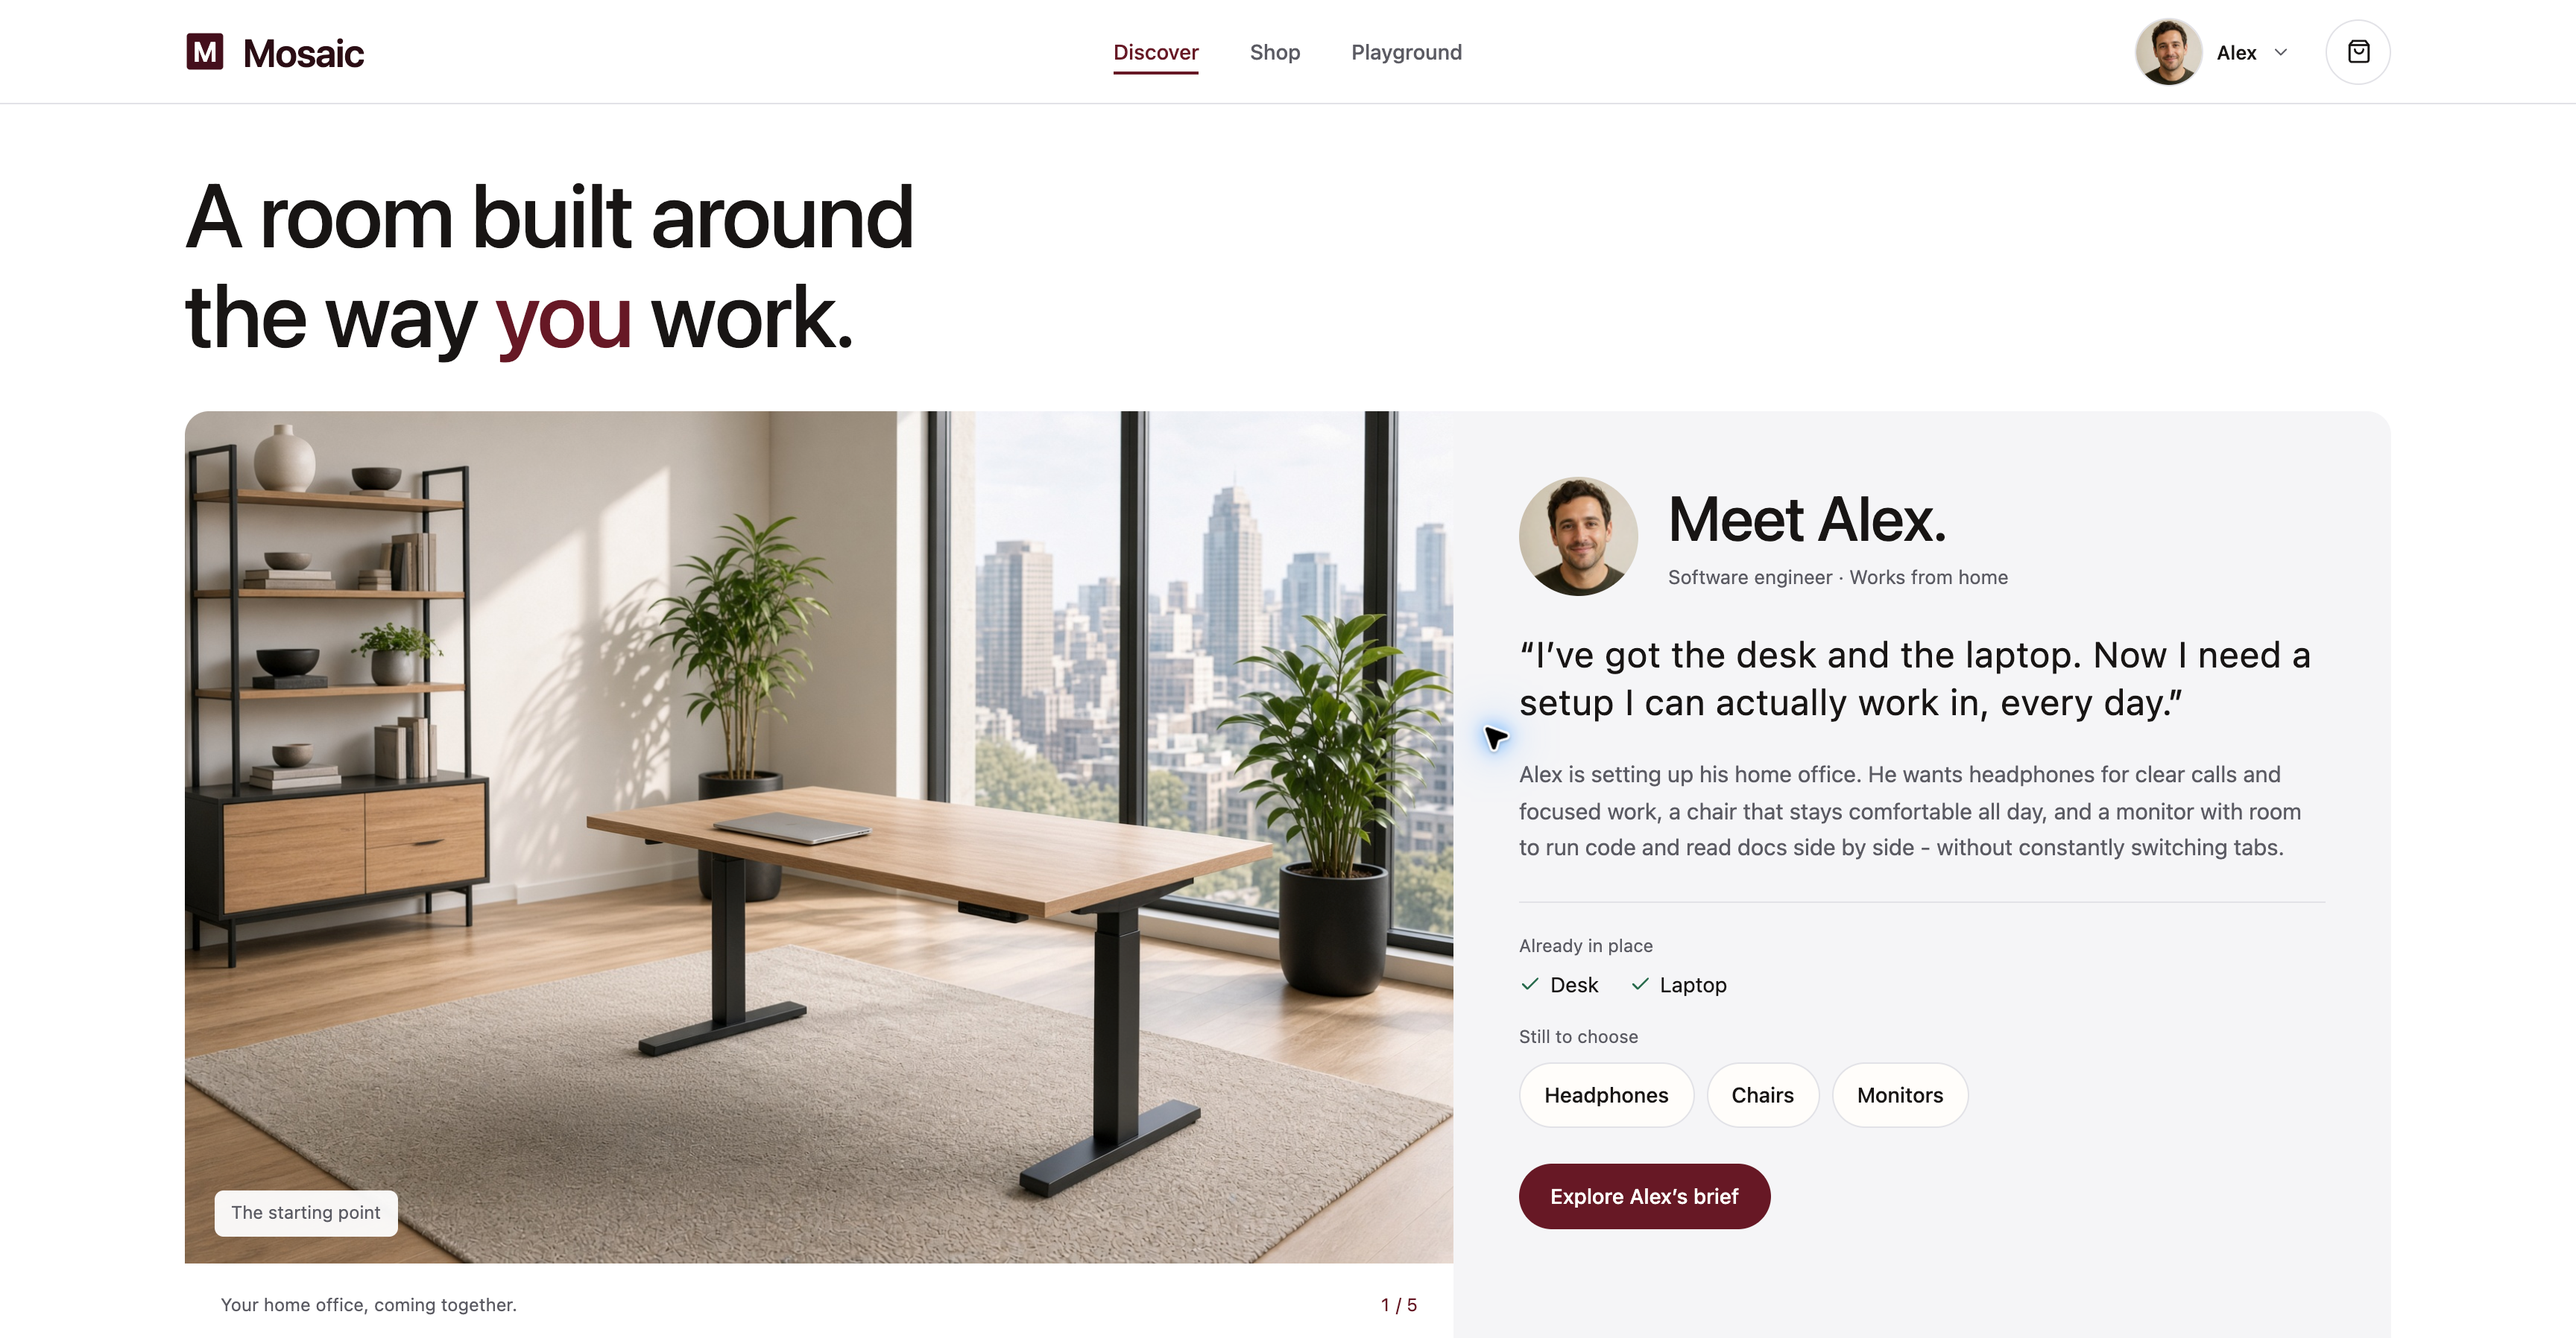
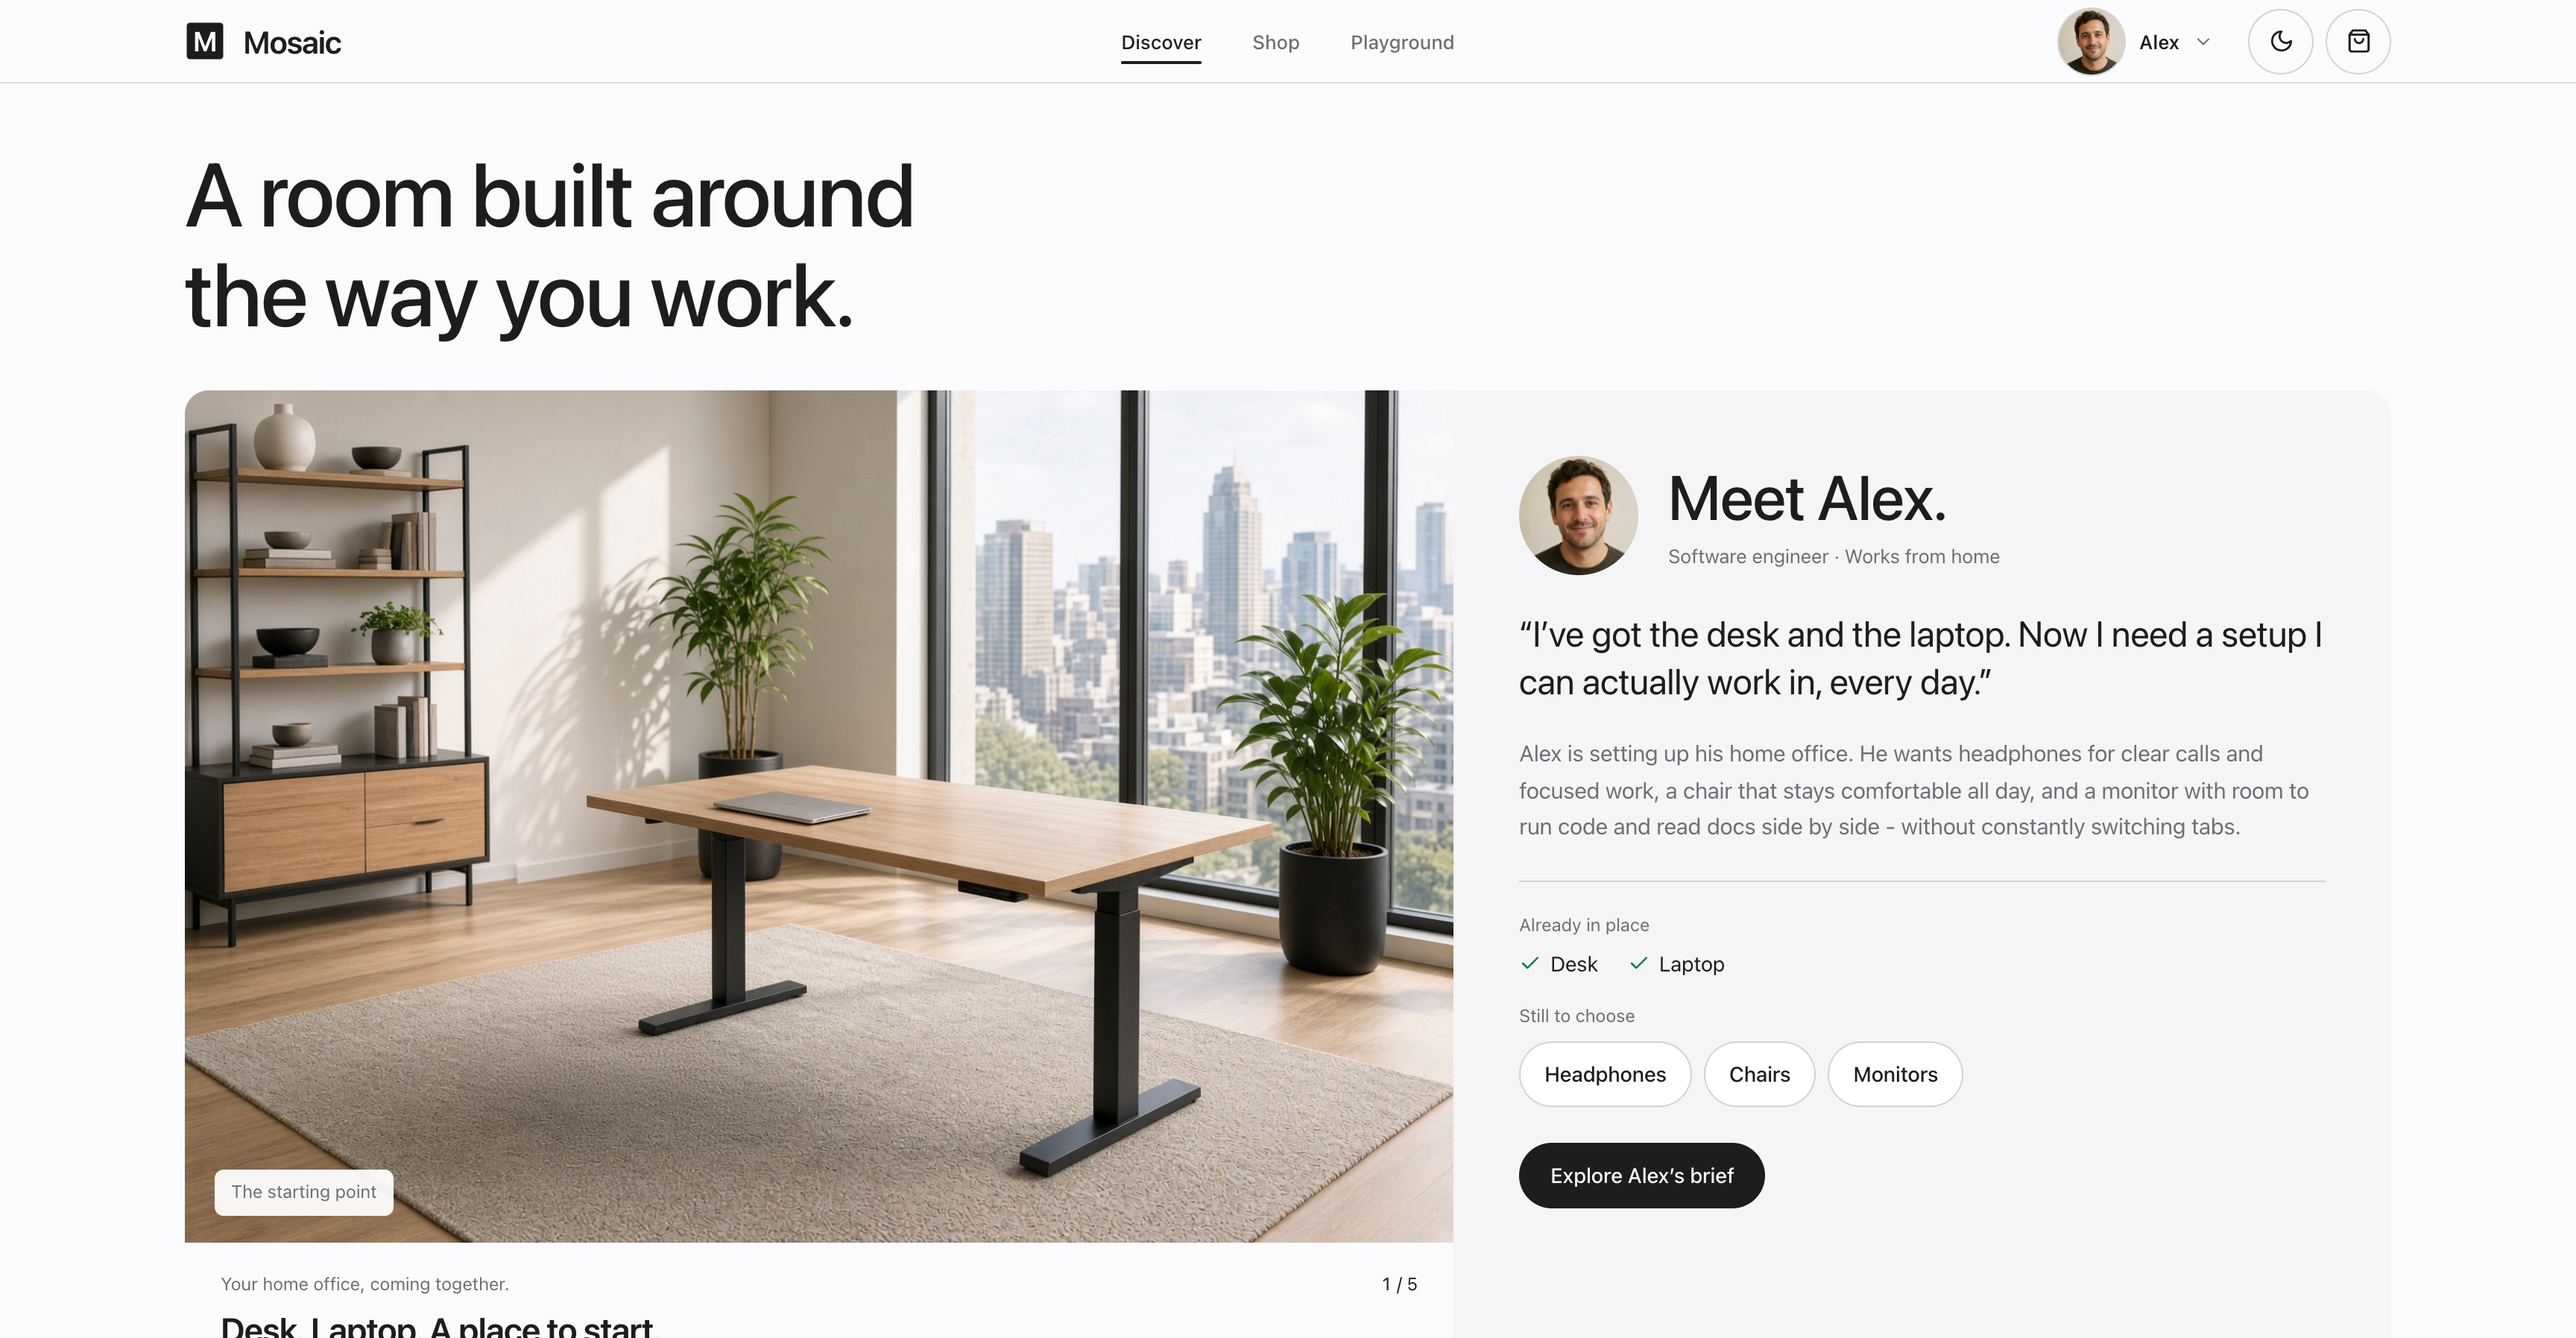
Describe receipts, typed specs, deeper reviews and themes up front
README and workshop.md now say what a participant meets: the itemized
"Why this match" receipt, product pages that quote the listing for each
typed spec, the light and dark appearance, and that the deeper review
sample is staged on the development cluster only until the catalog
bundle is republished. The README screenshot shows the current Discover
page.

diff --git a/workshop.md b/workshop.md
@@ -281,10 +281,10 @@ and the Playground lab rail carries these exercise states.
 
 ### Mosaic
 
-The application has three navigation destinations, with Ask Mosaic inside Shop:
+The application has three navigation destinations, with Ask Mosaic inside Shop. It follows the device's light or dark appearance; the header's sun or moon button switches it and the browser remembers the choice. Product photos sit on neutral plates so white-background listing images read the same in both themes.
 
 - **Discover.** The home-office brief described above: Alex, his room, three needs, and routes into search or category browsing. The illustrated scenes are inspiration, not a product bundle or a completed purchase.
-- **Shop.** The default Workspace edit shows a curated selection of the imported catalog; keyword search reaches the full 553,911 products. Every result card can open "See how this was retrieved", carrying the query, filters and saved search event into the Playground. Ticking two or more results compares them side by side, and the comparison is worth showing: under the price and the rating it prints which search methods found each product, its rank before reranking, and the rank the shopper was shown. Those three rows come from the run's saved receipt, not from the list on screen, which is why a comparison is only offered once a search has run. If the catalog carries none of a request's words, Shop says which ones above the results rather than returning a confident page of near misses.
+- **Shop.** The default Workspace edit shows a curated selection of the imported catalog; keyword search reaches the full 553,911 products. Every result card can open "See how this was retrieved", carrying the query, filters and saved search event into the Playground. **Why this match** on a result card unfolds its itemized receipt from the saved search: each method that found the product with its position and fusion contribution (a method that missed gets no line), the combined score before reranking, the reranker's score and the final position, then what the listing states, each fact beside the listing text it came from. Ticking two or more results compares them side by side, and the comparison is worth showing: under the price and the rating it prints which search methods found each product, its rank before reranking, and the rank the shopper was shown. Those three rows come from the run's saved receipt, not from the list on screen, which is why a comparison is only offered once a search has run. If the catalog carries none of a request's words, Shop says which ones above the results rather than returning a confident page of near misses.
 - **Ask Mosaic.** The agent, in a side panel on Shop or a mobile overlay below the header. The catalog retains its margins at normal laptop zoom, and long questions wrap in full. The panel keeps its title and follow-up box visible, with compact waiting and completed steps. It shows progress while gathering evidence, then leads with the cited answer. **Steps and sources** holds the request interpretation, searches, product comparison, supporting evidence, and tool activity. Follow-ups carry context from the prior grounded run with memory off. **Use saved memories** is a separate, optional control using the Playground's AgentCore Memory connection. **Memories used** shows actual records read and conversation-save status. Clearing chat starts a new conversation and keeps saved preferences. Required lab requests keep memory off. A specs-and-reviews question explains the available specifications and missing review excerpts without implying the product is absent or inventing customer experiences.
 - **Playground.** `/labs/retrieval` defaults to **Hybrid retrieval**, a three-stage inspection of Retrieve, Rank and Reason. Each column ends with a **Keep in mind** line that states the lesson the column proves, and Retrieve's search details add one more beside the search record, on the receipt and the HNSW settings; the stage questions are the ones introduced in the opening. Alex's request choices come from the canonical mission manifest. One send action, the same paper plane Discover uses (its tooltip reads **Run Mosaic**), makes a real agent request; the stages read its records. A saved Shop event opens its original receipt, and Run Mosaic starts a new complete run when an agent answer is needed. **Scale & HNSW** is the adjacent inspection lens.
 
@@ -305,13 +305,24 @@ links carry their saved search event into the three-stage Playground, preserving
 the request and both ranking orders. The current catalog serves unchanged source
 listings from Amazon Reviews 2023. Product pages retain original listing links,
 source image links, historical rating aggregates and explicit unknown values.
-Neither a relevance label nor a matching model number establishes compatibility.
+For monitors, headphones and chairs the page leads its specifications with the
+typed facts the listing states (screen size, resolution, refresh rate, USB-C
+power; noise cancelling, microphone, wireless, fit; lumbar support, armrests,
+headrest, weight capacity), each shown with its verbatim listing text.
+`service/product_specs.py` derives them at read time from the pinned source
+record, so they need no bundle change, and the agent's product tools return the
+same facts with their quotes. A fact the listing does not state is left out,
+never inferred. Neither a relevance label nor a matching model number
+establishes compatibility.
 
 Workshop Studio restores the selected 553,911 records and saved vectors from the
 hash-pinned real-catalog bundle, then sets `MOSAIC_CATALOG_DATASET`. The original
 cached catalog remains for shared schema setup and historical optional benchmarks;
 it is not the Shop catalog. The 418,620 imported reviews cover 67,750 products
-in the monitor, headphone and chair leaves. Lab 3 distinguishes specifications
+in the monitor, headphone and chair leaves; a deeper sample of up to 60 per
+product (902,760 reviews) is staged on the development cluster and reaches
+Workshop Studio only when the bundle is rebuilt and republished (see
+[the catalog source assessment](docs/catalog-source-assessment.md)). Lab 3 distinguishes specifications
 from reviews and admits missing excerpts rather than treating a rating count as
 review text. The bundle is local; public redistribution clearance and
 fresh-account delivery proof remain separate release requirements.
@@ -521,7 +532,9 @@ and the source's rating count. A second query reads back the participant's Lab 2
 decision from `mosaic.lab_decision`. Measured on 2026-09-26 on the
 `reviews-2023-v2` dev cluster: the Bose has 5,341 source ratings and 15
 imported reviews, the ViewSonic 96 and 10, the Steelcase Gesture (Licorice)
-235 and 15.
+235 and 15. After the deeper sample was staged on 2026-09-28 the same cluster
+holds 60, 14 and 39 imported reviews for those three products; a fresh
+Workshop Studio account holds the bundle's counts until it is republished.
 Ask one participant for a claim, another for its source, and another for what
 Alex still needs to check. Use the existing runs; do not start a new model call
 to manufacture a cleaner finale.

diff --git a/README.md b/README.md
@@ -43,6 +43,10 @@ for you; the command checks deployed source identity and Gateway connectivity.
 
 Use **Discover** to explore Alex's brief, **Shop** to search and compare products,
 and **Playground** to inspect search results, ranking, tool calls, and sources.
+On Shop, **Why this match** itemizes how each result was found and ranked, and
+product pages show the specifications a listing states beside the listing text
+they came from. Mosaic follows your device's light or dark appearance; the
+header button switches it.
 
 Keep your predictions and explanations in Code Editor's `learning-notes.md`.
 Save the before-and-after searches, and complete each lab's checks before moving
